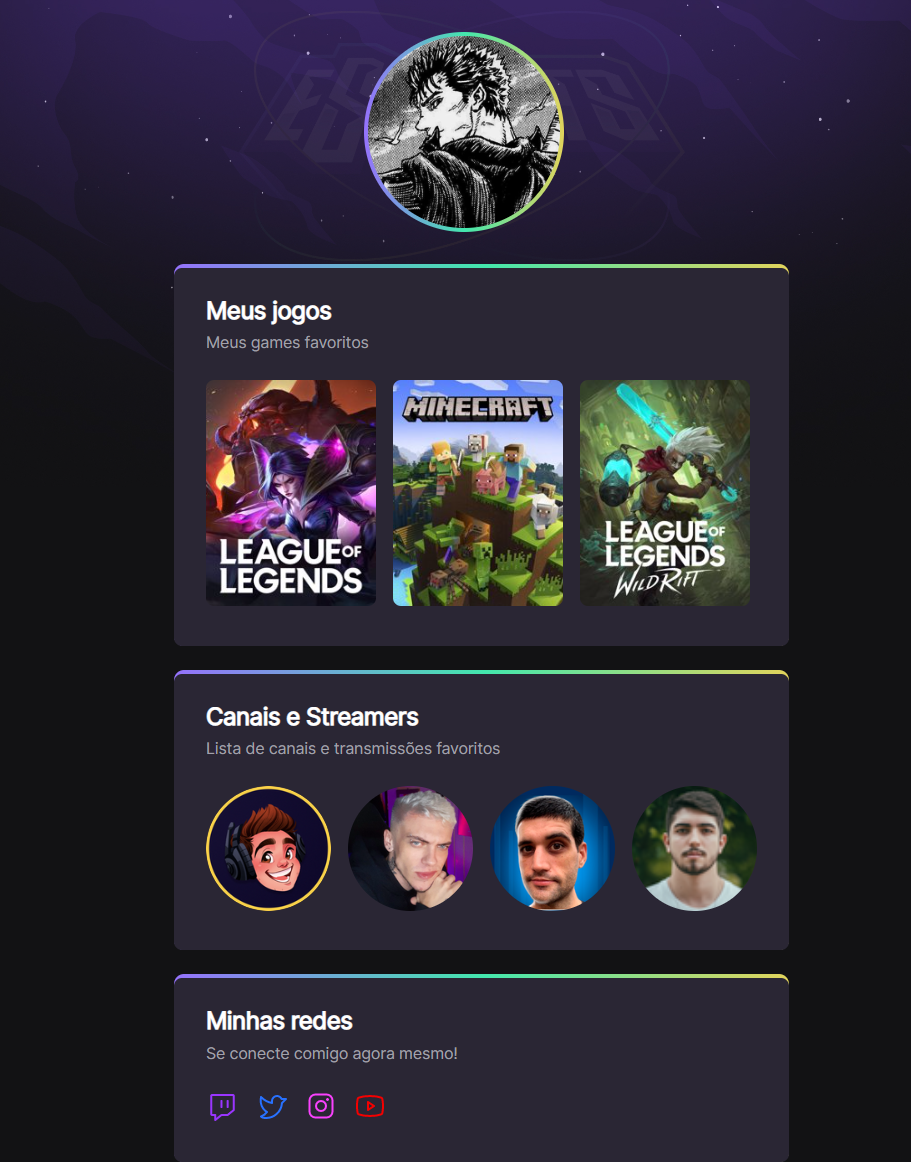
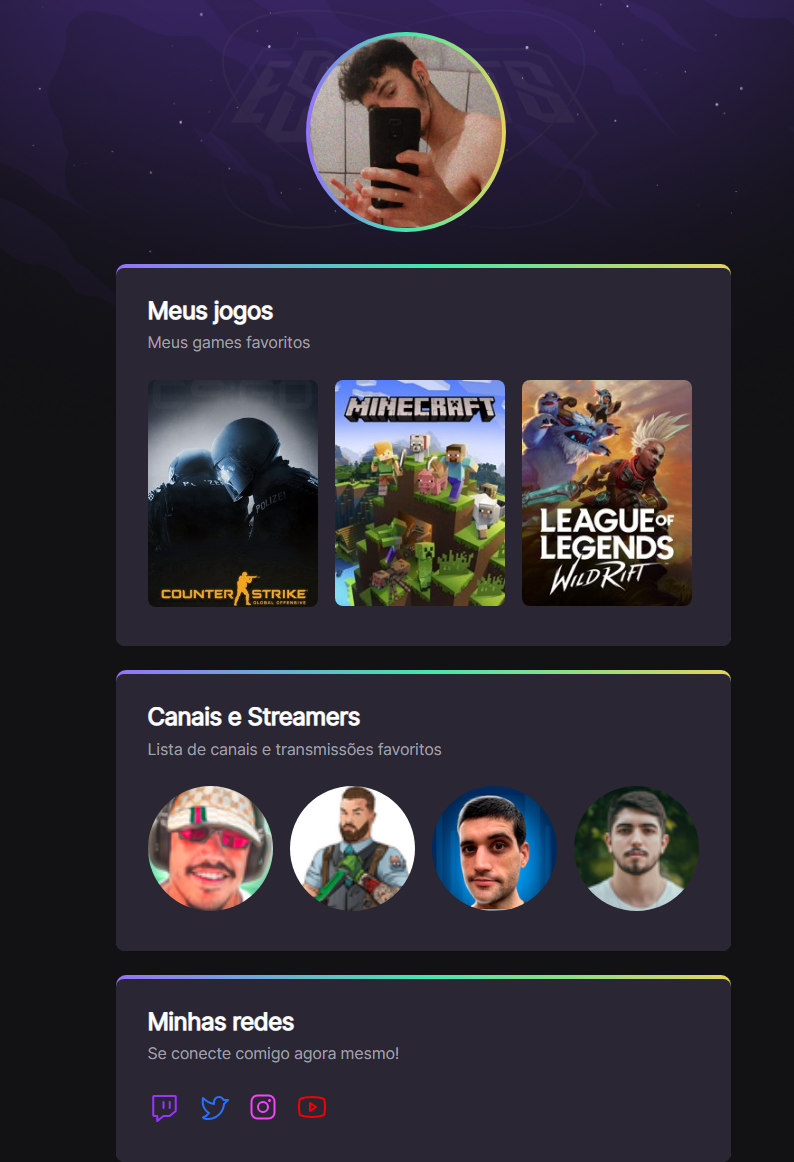
added Streamers and games to game list

Changed region(s): [[0.1209, 0.2169, 0.937, 1.0], [0.3627, 0.031, 0.6348, 0.2169], [0.1511, 0.2169, 0.1814, 0.2478]]

diff --git a/README.md b/README.md
@@ -1,6 +1,6 @@
 # NLW eSports 
 
-![preview](./.github/preview.png)
+![preview](.github/preview.png)
 
 > Trilha Explorer 
 
